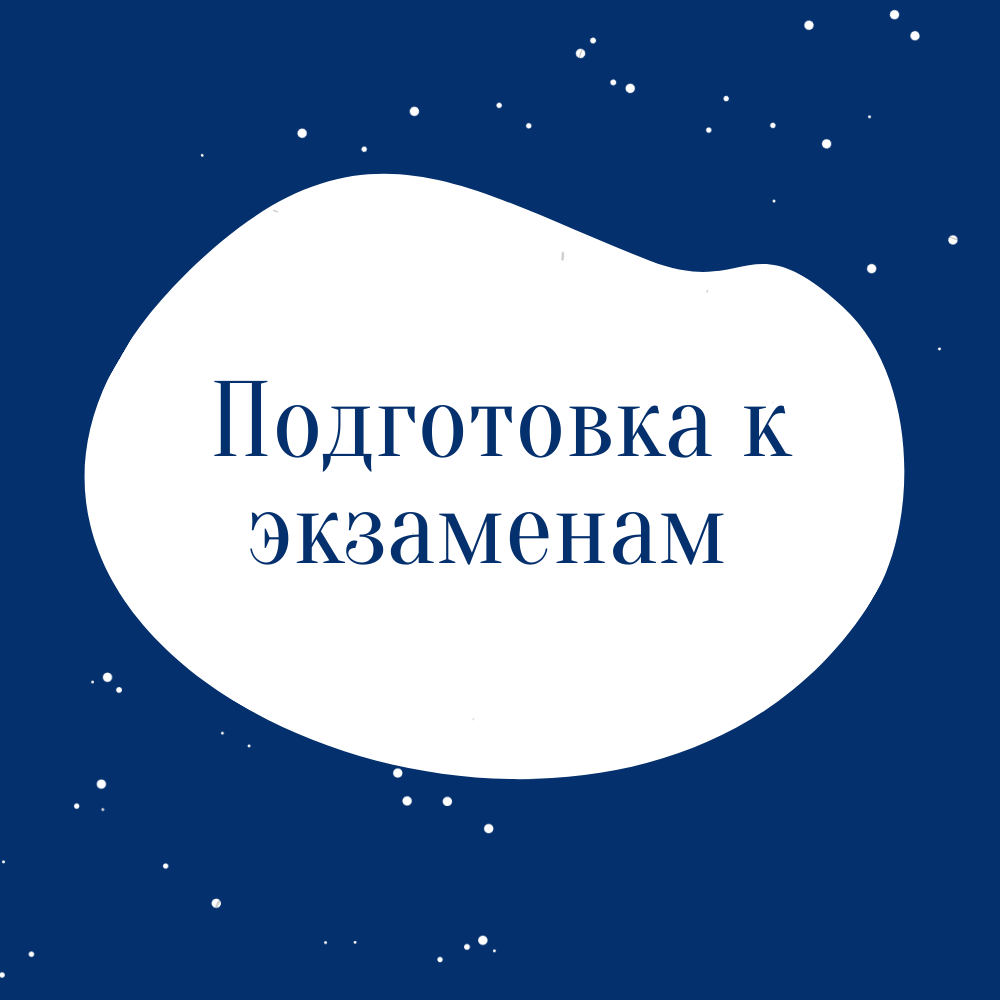
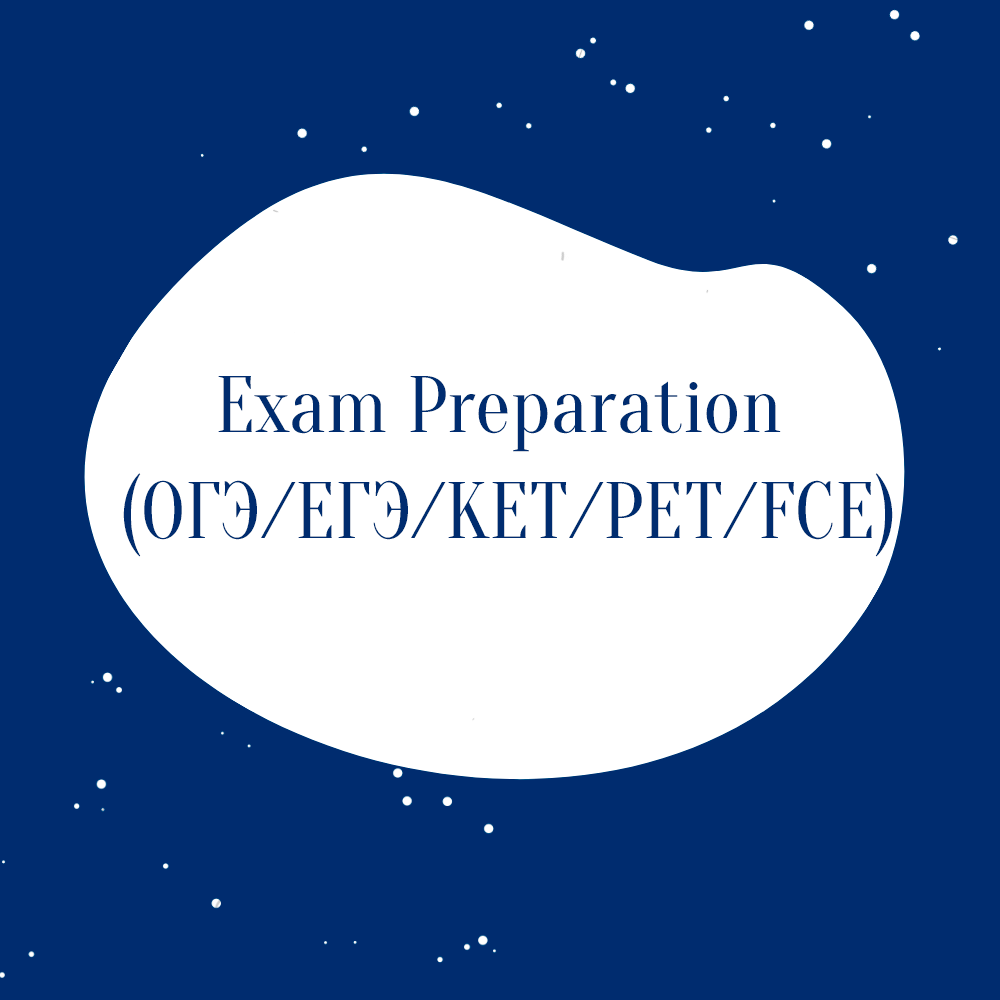
Lessons

Changed region(s): [[0.124, 0.372, 0.899, 0.589]]

diff --git a/resources/views/home/prices.blade.php b/resources/views/home/prices.blade.php
@@ -31,15 +31,15 @@
 {{--                <p class="price block">Индивидуально</p>--}}
 {{--            </div>--}}
 
-            <div class="col-lg-4 col-6 text-center lessons-block" data-id="general" data-title="Общий Английский">
+            <div class="col-lg-4 col-6 text-center lessons-block" data-id="general" data-title="General English">
                 <img class="block" src="/images/lesson_general.png" alt="Lesson general">
                 <p class="price block">1500 ₽ / час</p>
             </div>
-            <div class="col-lg-4 col-6 text-center lessons-block" data-id="exam" data-title="Подготовка к экзаменам">
+            <div class="col-lg-4 col-6 text-center lessons-block" data-id="exam" data-title="Exam Preparation (ОГЭ/ЕГЭ/KET/PET/FCE)">
                 <img class="block" src="/images/lesson_exam.png" alt="Lesson exam">
                 <p class="price block">1800 ₽ / час</p>
             </div>
-            <div class="col-lg-4 offset-lg-0 offset-3 col-6 text-center lessons-block" data-id="special" data-title='Английский для "узких" целей'>
+            <div class="col-lg-4 offset-lg-0 offset-3 col-6 text-center lessons-block" data-id="special" data-title='English for specific purpose (ESP)'>
                 <img class="block" src="/images/lesson_special.png" alt="Lesson special">
                 <p class="price block">1800 ₽ / час</p>
             </div>

diff --git a/resources/views/lessons/exam.blade.php b/resources/views/lessons/exam.blade.php
@@ -1,5 +1,11 @@
+<p>
+    Это для вас, если хотите подготовиться к международным (KET/PET/FCE) или государственным (ОГЕ/ЕГЭ) экзаменам
+</p>
+<p>На занятиях мы:</p>
 <ul>
-    <li>Проработка всех навыков: аудирование, чтение, письмо и говорение</li>
-    <li>Подробно разбираем каждое задание, прорабатываем стратегию их выполнения</li>
-    <li>Много практики, как письменной, так и устной</li>
+    <li>Разбираем стратегии выполнения всех заданий</li>
+    <li>Прорабатываем каждое задание отдельно</li>
+    <li>Развиваем все языковые навыки</li>
+    <li>Отрабатываем экзаменационный формат</li>
+    <li>Учимся следить за временем</li>
 </ul>

diff --git a/resources/views/lessons/general.blade.php b/resources/views/lessons/general.blade.php
@@ -1,3 +1,11 @@
+<p>
+    Это для вас, если хотите отправиться в путешествие заграницу/ общаться и заводить новых друзей/ смотреть фильмы и сериалы, читать книги и не только на английском.
+</p>
+<p>С первых занятий вы сможете:</p>
 <ul>
-    <li></li>
+    <li>Начать разговаривать на английском</li>
+    <li>Улучшить произношение</li>
+    <li>Расширить словарный запас</li>
+    <li>Проработать грамматику</li>
 </ul>
+<p>И многое другое :)</p>

diff --git a/resources/views/lessons/special.blade.php b/resources/views/lessons/special.blade.php
@@ -1,3 +1,11 @@
+<p>Это для вас, если есть узкий запрос, например:</p>
 <ul>
-    <li></li>
+    <li>Подготовиться к job interview</li>
+    <li>Подготовиться к job assessment</li>
+    <li>Общаться с коллегами/клиентами</li>
+    <li>Быть в курсе актуальных новостей в своей сфере</li>
+    <li>Читать специализированную литературу</li>
+    <li>Посещать иностранные конференции</li>
+    <li>Выступать с речью на публике</li>
 </ul>
+<p>И многое другое:)</p>
